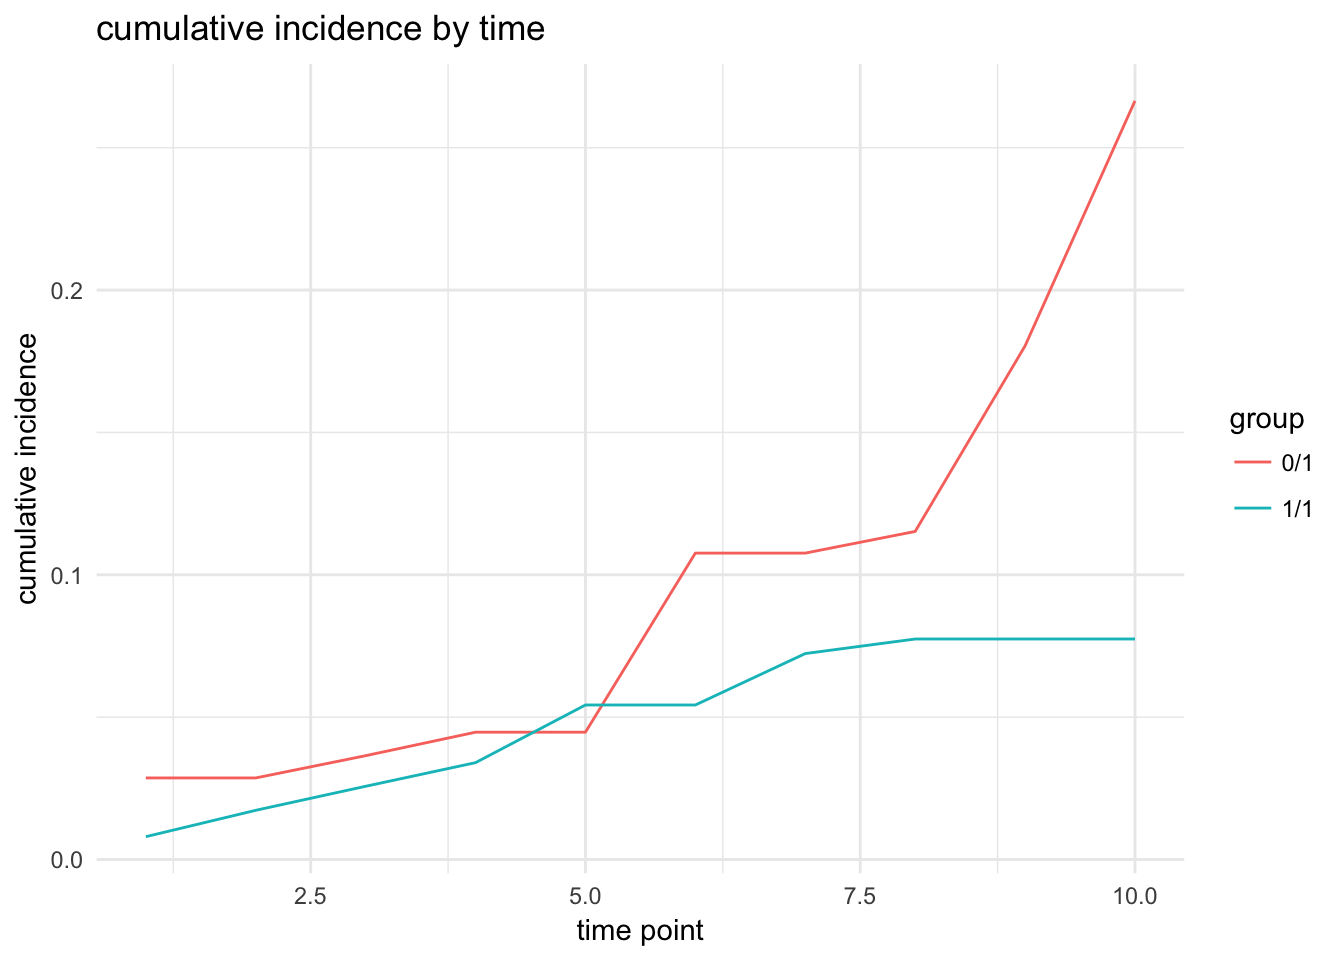
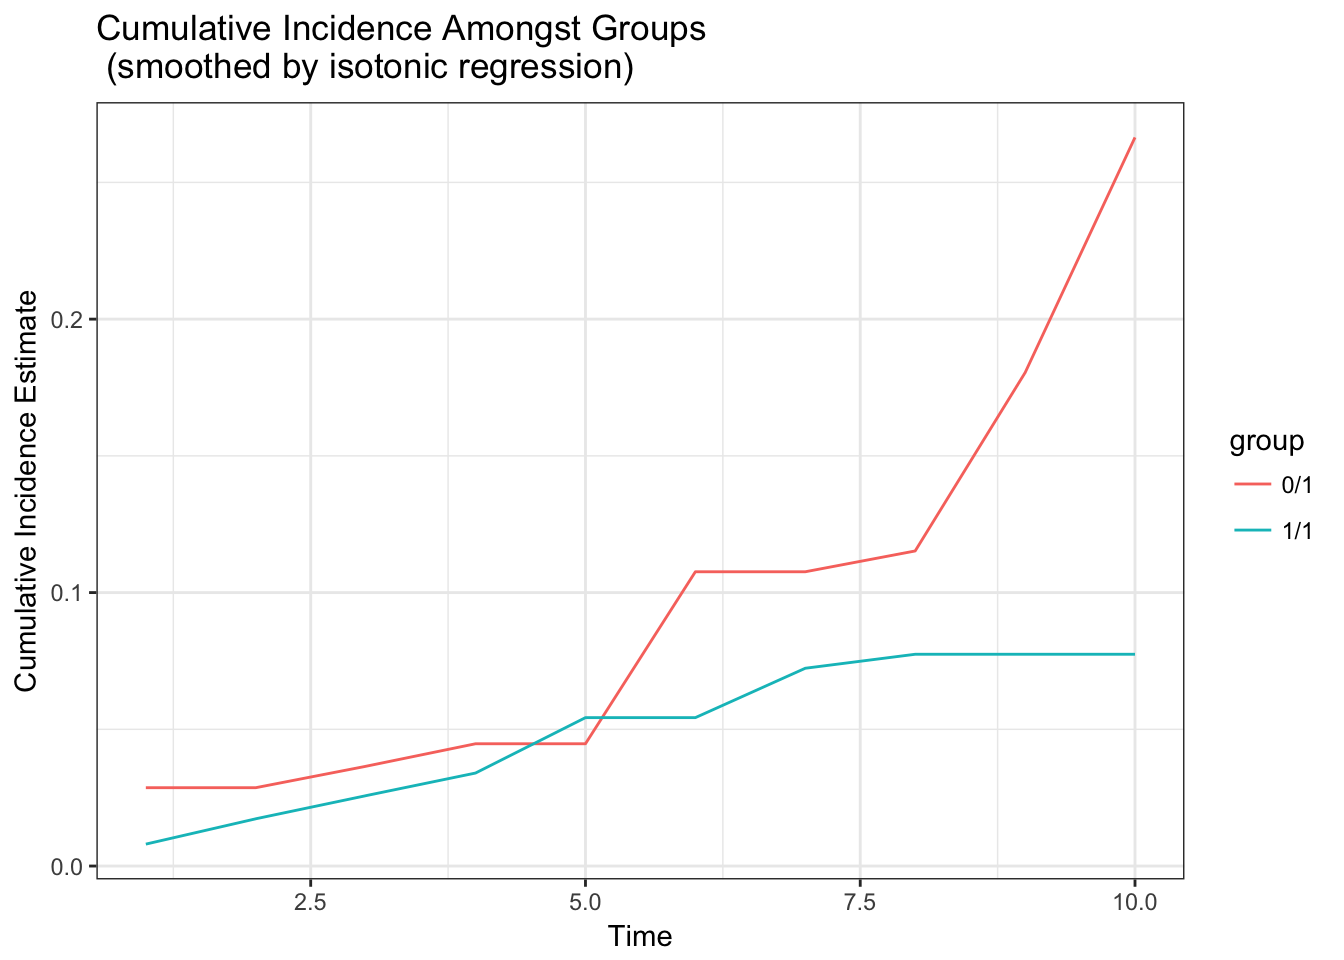
readme example with new plot + rebuild pkgdown site

diff --git a/docs/index.html b/docs/index.html
@@ -5,8 +5,8 @@
 <meta charset="utf-8">
 <meta http-equiv="X-UA-Compatible" content="IE=edge">
 <meta name="viewport" content="width=device-width, initial-scale=1.0">
-<title>Compute targeted minimum loss-based estimates in right-censored survival
-    settings • survtmle</title>
+<title>Compute Targeted Minimum Loss-Based Estimates in Right-Censored Survival
+    Settings • survtmle</title>
 <!-- jquery --><script src="https://code.jquery.com/jquery-3.1.0.min.js" integrity="sha384-nrOSfDHtoPMzJHjVTdCopGqIqeYETSXhZDFyniQ8ZHcVy08QesyHcnOUpMpqnmWq" crossorigin="anonymous"></script><!-- Bootstrap --><link href="https://maxcdn.bootstrapcdn.com/bootstrap/3.3.7/css/bootstrap.min.css" rel="stylesheet" integrity="sha384-BVYiiSIFeK1dGmJRAkycuHAHRg32OmUcww7on3RYdg4Va+PmSTsz/K68vbdEjh4u" crossorigin="anonymous">
 <script src="https://maxcdn.bootstrapcdn.com/bootstrap/3.3.7/js/bootstrap.min.js" integrity="sha384-Tc5IQib027qvyjSMfHjOMaLkfuWVxZxUPnCJA7l2mCWNIpG9mGCD8wGNIcPD7Txa" crossorigin="anonymous"></script><!-- Font Awesome icons --><link href="https://maxcdn.bootstrapcdn.com/font-awesome/4.6.3/css/font-awesome.min.css" rel="stylesheet" integrity="sha384-T8Gy5hrqNKT+hzMclPo118YTQO6cYprQmhrYwIiQ/3axmI1hQomh7Ud2hPOy8SP1" crossorigin="anonymous">
 <!-- pkgdown --><link href="pkgdown.css" rel="stylesheet">
@@ -71,7 +71,7 @@
 <blockquote>
 <p>Targeted Minimum Loss-Based Estimation (TMLE) for Survival Analysis with Competing Risks</p>
 </blockquote>
-<p><strong>Authors:</strong> <a href="https://www.benkeserstatistics.com/">David Benkeser</a> &amp; <a href="http://nimahejazi.org">Nima Hejazi</a></p>
+<p><strong>Authors:</strong> <a href="https://www.benkeserstatistics.com/">David Benkeser</a> and <a href="http://nimahejazi.org">Nima Hejazi</a></p>
 <hr>
 <div id="description" class="section level2">
 <h2 class="hasAnchor">
@@ -120,18 +120,6 @@ fit &lt;-<span class="st"> </span><span class="kw"><a href="reference/survtmle.h
 <span class="co">#&gt; glm.trt and SL.trt not specified. Proceeding with glm.trt = '1'</span>
 <span class="co">#&gt; TMLE Iteration  1   :  -9e-04 1e-04</span>
 
-<span class="co"># quick look at the output object</span>
-fit
-<span class="co">#&gt; $est</span>
-<span class="co">#&gt;           [,1]</span>
-<span class="co">#&gt; 0 1 0.26644929</span>
-<span class="co">#&gt; 1 1 0.07278289</span>
-<span class="co">#&gt; </span>
-<span class="co">#&gt; $var</span>
-<span class="co">#&gt;              0 1          1 1</span>
-<span class="co">#&gt; 0 1 3.122931e-03 3.927201e-05</span>
-<span class="co">#&gt; 1 1 3.927201e-05 9.578375e-04</span>
-
 <span class="co"># extract cumulative incidence at each time point</span>
 tpfit &lt;-<span class="st"> </span><span class="kw"><a href="reference/timepoints.html">timepoints</a></span>(fit, <span class="dt">times =</span> <span class="kw">seq_len</span>(t_<span class="dv">0</span>))
 <span class="co">#&gt; TMLE Iteration  1   :  0 0 </span>
@@ -142,6 +130,22 @@ tpfit &lt;-<span class="st"> </span><span class="kw"><a href="reference/timepoin
 <span class="co">#&gt; TMLE Iteration  1   :  -9e-04 -2e-04 </span>
 <span class="co">#&gt; TMLE Iteration  1   :  -5e-04 -2e-04 </span>
 <span class="co">#&gt; TMLE Iteration  1   :  -0.0017 -1e-04</span>
+<span class="kw">print</span>(tpfit)
+<span class="co">#&gt; $est</span>
+<span class="co">#&gt;              t1         t2         t3         t4         t5         t6</span>
+<span class="co">#&gt; 0 1 0.032997470 0.02429619 0.03646452 0.04867155 0.04076233 0.11147399</span>
+<span class="co">#&gt; 1 1 0.008014555 0.01727758 0.02571549 0.03401515 0.05722310 0.05131788</span>
+<span class="co">#&gt;             t7         t8         t9        t10</span>
+<span class="co">#&gt; 0 1 0.10375280 0.11522782 0.18040243 0.26644929</span>
+<span class="co">#&gt; 1 1 0.07233118 0.08266406 0.07688998 0.07278289</span>
+<span class="co">#&gt; </span>
+<span class="co">#&gt; $var</span>
+<span class="co">#&gt;               t1           t2           t3           t4           t5</span>
+<span class="co">#&gt; 0 1 4.565496e-04 0.0004508117 0.0004457730 0.0004420009 0.0004461814</span>
+<span class="co">#&gt; 1 1 2.111604e-06 0.0003335335 0.0003191353 0.0003058917 0.0006114673</span>
+<span class="co">#&gt;               t6           t7           t8           t9          t10</span>
+<span class="co">#&gt; 0 1 0.0012230239 0.0012205672 0.0011840986 0.0019516376 0.0031229308</span>
+<span class="co">#&gt; 1 1 0.0006198923 0.0009695247 0.0009425824 0.0009515562 0.0009578375</span>
 
 <span class="co"># examine plot of cumulative incidences</span>
 <span class="kw">plot</span>(tpfit, <span class="dt">type =</span> <span class="st">"smooth"</span>)</code></pre></div>
@@ -184,6 +188,8 @@ SOFTWARE.</code></pre>
 <ul class="list-unstyled">
 <li>Browse source code at <br><a href="https://github.com/benkeser/survtmle">https://github.com/benkeser/survtmle</a>
 </li>
+<li>Report a bug at <br><a href="https://github.com/benkeser/survtmle/issues">https://github.com/benkeser/survtmle/issues</a>
+</li>
 </ul>
 <h2>License</h2>
 <p><a href="https://opensource.org/licenses/mit-license.php">MIT</a> + file <a href="LICENSE">LICENSE</a></p>
@@ -199,7 +205,7 @@ SOFTWARE.</code></pre>
 <li><a href="https://ci.appveyor.com/project/benkeser/survtmle"><img src="https://ci.appveyor.com/api/projects/status/github/benkeser/survtmle?branch=master&amp;svg=true" alt="AppVeyor Build Status"></a></li>
 <li><a href="https://codecov.io/github/benkeser/survtmle?branch=master"><img src="https://img.shields.io/codecov/c/github/benkeser/survtmle/master.svg" alt="Coverage Status"></a></li>
 <li><a href="http://www.r-pkg.org/pkg/survtmle"><img src="http://www.r-pkg.org/badges/version/survtmle" alt="CRAN"></a></li>
-<li><a href="http://www.repostatus.org/#wip"><img src="http://www.repostatus.org/badges/latest/wip.svg" alt="Project Status: WIP - Initial development is in progress, but there has not yet been a stable, usable release suitable for the public."></a></li>
+<li><a href="http://www.repostatus.org/#active"><img src="http://www.repostatus.org/badges/latest/active.svg" alt="Project Status: Active – The project has reached a stable, usable state and is being actively developed."></a></li>
 <li><a href="http://opensource.org/licenses/MIT"><img src="http://img.shields.io/badge/license-MIT-brightgreen.svg" alt="MIT license"></a></li>
 </ul>
 </body></html>

diff --git a/docs/reference/plot.tp.survtmle.html b/docs/reference/plot.tp.survtmle.html
@@ -108,6 +108,31 @@ to <code>stats::isoreg</code></dd>
         time points of interest.</p>
     
 
+    <h2 class="hasAnchor" id="examples"><a class="anchor" href="#examples"></a>Examples</h2>
+    <pre class="examples"><div class='input'><span class='fu'>library</span>(<span class='no'>survtmle</span>)
+<span class='fu'>set.seed</span>(<span class='fl'>341796</span>)
+<span class='no'>n</span> <span class='kw'>&lt;-</span> <span class='fl'>100</span>
+<span class='no'>t_0</span> <span class='kw'>&lt;-</span> <span class='fl'>10</span>
+<span class='no'>W</span> <span class='kw'>&lt;-</span> <span class='fu'>data.frame</span>(<span class='kw'>W1</span> <span class='kw'>=</span> <span class='fu'>runif</span>(<span class='no'>n</span>), <span class='kw'>W2</span> <span class='kw'>=</span> <span class='fu'>rbinom</span>(<span class='no'>n</span>, <span class='fl'>1</span>, <span class='fl'>0.5</span>))
+<span class='no'>A</span> <span class='kw'>&lt;-</span> <span class='fu'>rbinom</span>(<span class='no'>n</span>, <span class='fl'>1</span>, <span class='fl'>0.5</span>)
+<span class='no'>T</span> <span class='kw'>&lt;-</span> <span class='fu'>rgeom</span>(<span class='no'>n</span>,<span class='fu'>plogis</span>(-<span class='fl'>4</span> + <span class='no'>W</span>$<span class='no'>W1</span> * <span class='no'>W</span>$<span class='no'>W2</span> - <span class='no'>A</span>)) + <span class='fl'>1</span>
+<span class='no'>C</span> <span class='kw'>&lt;-</span> <span class='fu'>rgeom</span>(<span class='no'>n</span>, <span class='fu'>plogis</span>(-<span class='fl'>6</span> + <span class='no'>W</span>$<span class='no'>W1</span>)) + <span class='fl'>1</span>
+<span class='no'>ftime</span> <span class='kw'>&lt;-</span> <span class='fu'>pmin</span>(<span class='no'>T</span>, <span class='no'>C</span>)
+<span class='no'>ftype</span> <span class='kw'>&lt;-</span> <span class='fu'>as.numeric</span>(<span class='no'>ftime</span> <span class='kw'>==</span> <span class='no'>T</span>)
+<span class='fu'>suppressWarnings</span>(
+  <span class='no'>fit</span> <span class='kw'>&lt;-</span> <span class='fu'><a href='survtmle.html'>survtmle</a></span>(<span class='kw'>ftime</span> <span class='kw'>=</span> <span class='no'>ftime</span>, <span class='kw'>ftype</span> <span class='kw'>=</span> <span class='no'>ftype</span>,
+                  <span class='kw'>adjustVars</span> <span class='kw'>=</span> <span class='no'>W</span>, <span class='kw'>glm.ftime</span> <span class='kw'>=</span> <span class='st'>"I(W1*W2) + trt + t"</span>,
+                  <span class='kw'>trt</span> <span class='kw'>=</span> <span class='no'>A</span>, <span class='kw'>glm.ctime</span> <span class='kw'>=</span> <span class='st'>"W1 + t"</span>, <span class='kw'>method</span> <span class='kw'>=</span> <span class='st'>"hazard"</span>,
+                  <span class='kw'>verbose</span> <span class='kw'>=</span> <span class='fl'>TRUE</span>,  <span class='kw'>t0</span> <span class='kw'>=</span> <span class='no'>t_0</span>, <span class='kw'>maxIter</span> <span class='kw'>=</span> <span class='fl'>2</span>)
+)</div><div class='output co'>#&gt; TMLE Iteration  1   :  -9e-04 1e-04 </div><div class='input'><span class='no'>tpfit</span> <span class='kw'>&lt;-</span> <span class='fu'><a href='timepoints.html'>timepoints</a></span>(<span class='no'>fit</span>, <span class='kw'>times</span> <span class='kw'>=</span> <span class='fu'>seq_len</span>(<span class='no'>t_0</span>))</div><div class='output co'>#&gt; TMLE Iteration  1   :  0 0 
+#&gt; TMLE Iteration  1   :  -3e-04 0 
+#&gt; TMLE Iteration  1   :  -6e-04 0 
+#&gt; TMLE Iteration  1   :  -3e-04 0 
+#&gt; TMLE Iteration  1   :  -0.0017 0 
+#&gt; TMLE Iteration  1   :  -9e-04 -2e-04 
+#&gt; TMLE Iteration  1   :  -5e-04 -2e-04 
+#&gt; TMLE Iteration  1   :  -0.0017 -1e-04 </div><div class='input'><span class='fu'>plot</span>(<span class='no'>tpfit</span>, <span class='kw'>type</span> <span class='kw'>=</span> <span class='st'>"smooth"</span>)</div><img src='plot.tp.survtmle-6.png' alt='' width='540' height='400' /><div class='input'>
+</div></pre>
   </div>
   <div class="col-md-3 hidden-xs hidden-sm" id="sidebar">
     <h2>Contents</h2>
@@ -115,7 +140,9 @@ to <code>stats::isoreg</code></dd>
       <li><a href="#arguments">Arguments</a></li>
       
       <li><a href="#value">Value</a></li>
-          </ul>
+      
+      <li><a href="#examples">Examples</a></li>
+    </ul>
 
   </div>
 </div>

diff --git a/docs/reference/print.tp.survtmle.html b/docs/reference/print.tp.survtmle.html
@@ -6,7 +6,7 @@
 <meta http-equiv="X-UA-Compatible" content="IE=edge">
 <meta name="viewport" content="width=device-width, initial-scale=1.0">
 
-<title>Articles • survtmle</title>
+<title>print.tp.survtmle — print.tp.survtmle • survtmle</title>
 
 <!-- jquery -->
 <script src="https://code.jquery.com/jquery-3.1.0.min.js" integrity="sha384-nrOSfDHtoPMzJHjVTdCopGqIqeYETSXhZDFyniQ8ZHcVy08QesyHcnOUpMpqnmWq" crossorigin="anonymous"></script>
@@ -34,7 +34,7 @@
   </head>
 
   <body>
-    <div class="container template-vignette-index">
+    <div class="container template-reference-topic">
       <header>
       <div class="navbar navbar-default navbar-fixed-top" role="navigation">
   <div class="container">
@@ -74,20 +74,42 @@
       
       </header>
 
-      <div class="page-header">
-  <h1>Vignette reference <small>version&nbsp;0.1.2</small></h1>
-</div>
-
-<div class="row">
-  <div class="col-md-9">
-    <div class="section ">
-      <h3>All vignettes</h3>
-      <p class="section-desc"></p>
-
-      <ul>
-        <li><a href="basicSieveAnalysis.html">Vaccine Sieve Analysis by Targeted Learning</a></li>
-      </ul>
+      <div class="row">
+  <div class="col-md-9 contents">
+    <div class="page-header">
+    <h1>print.tp.survtmle</h1>
     </div>
+
+    
+    <p>The print method for a timepoints object of class <code>tp.survtmle</code></p>
+    
+
+    <pre><span class='co'># S3 method for tp.survtmle</span>
+<span class='fu'>print</span>(<span class='no'>x</span>, <span class='no'>...</span>)</pre>
+    
+    <h2 class="hasAnchor" id="arguments"><a class="anchor" href="#arguments"></a> Arguments</h2>
+    <dl class="dl-horizontal">
+      <dt>x</dt>
+      <dd>An object of class <code>tp.survtmle</code></dd>
+      <dt>...</dt>
+      <dd>Other options (not currently used)</dd>
+    </dl>
+    
+    <h2 class="hasAnchor" id="value"><a class="anchor" href="#value"></a>Value</h2>
+
+    <p>Prints the estimates of cumulative incidence and the diagonal
+        of the estimated covariance matrix.</p>
+    
+
+  </div>
+  <div class="col-md-3 hidden-xs hidden-sm" id="sidebar">
+    <h2>Contents</h2>
+    <ul class="nav nav-pills nav-stacked">
+      <li><a href="#arguments">Arguments</a></li>
+      
+      <li><a href="#value">Value</a></li>
+          </ul>
+
   </div>
 </div>
 

diff --git a/docs/reference/index.html b/docs/reference/index.html
@@ -78,7 +78,7 @@
   <div class="col-md-9">
     <div class="page-header">
       <h1>Function reference</h1>
-      <h4>version&nbsp;0.1.1</h4>
+      <h4>version&nbsp;0.1.2</h4>
     </div>
 
     <div class="contents">
@@ -189,6 +189,11 @@
       <p><a href="print.survtmle.html">print.survtmle</a></p>
       <ul>
         <li><code><a href="print.survtmle.html">print.survtmle</a></code></li>
+      </ul>
+      
+      <p><a href="print.tp.survtmle.html">print.tp.survtmle</a></p>
+      <ul>
+        <li><code><a href="print.tp.survtmle.html">print.tp.survtmle</a></code></li>
       </ul>
       
       <p><a href="rtss.html">Mock RTSS/AS01 data set</a></p>

diff --git a/docs/reference/timepoints.html b/docs/reference/timepoints.html
@@ -158,7 +158,8 @@ timepoints specified and the size of the super learner library.</dd>
 #&gt; 1 1  6.160159e-05  4.270541e-03 -8.875712e-05 -1.167929e-03
 #&gt; 0 2 -9.378340e-04 -8.875712e-05  3.664619e-03  1.676504e-05
 #&gt; 1 2  5.297656e-05 -1.167929e-03  1.676504e-05  3.802279e-03
-#&gt; </div></pre>
+#&gt; </div><div class='input'>
+</div></pre>
   </div>
   <div class="col-md-3 hidden-xs hidden-sm" id="sidebar">
     <h2>Contents</h2>

diff --git a/docs/articles/basicSieveAnalysis.html b/docs/articles/basicSieveAnalysis.html
@@ -102,7 +102,7 @@
 ## [1] stats     graphics  grDevices utils     datasets  methods   base     
 ## 
 ## other attached packages:
-## [1] nnls_1.4          survtmle_0.1.1    dtplyr_0.0.2      data.table_1.10.4
+## [1] nnls_1.4          survtmle_0.1.2    dtplyr_0.0.2      data.table_1.10.4
 ## [5] dplyr_0.7.1       ggplot2_2.2.1     devtools_1.13.2   nima_0.4.0       
 ## [9] colorout_1.1-2   
 ## 

diff --git a/README.md b/README.md
@@ -3,11 +3,11 @@
 R/`survtmle`
 ============
 
-[![Travis-CI Build Status](https://travis-ci.org/benkeser/survtmle.svg?branch=master)](https://travis-ci.org/benkeser/survtmle) [![AppVeyor Build Status](https://ci.appveyor.com/api/projects/status/github/benkeser/survtmle?branch=master&svg=true)](https://ci.appveyor.com/project/benkeser/survtmle) [![Coverage Status](https://img.shields.io/codecov/c/github/benkeser/survtmle/master.svg)](https://codecov.io/github/benkeser/survtmle?branch=master) [![CRAN](http://www.r-pkg.org/badges/version/survtmle)](http://www.r-pkg.org/pkg/survtmle) [![Project Status: WIP - Initial development is in progress, but there has not yet been a stable, usable release suitable for the public.](http://www.repostatus.org/badges/latest/wip.svg)](http://www.repostatus.org/#wip) [![MIT license](http://img.shields.io/badge/license-MIT-brightgreen.svg)](http://opensource.org/licenses/MIT)
+[![Travis-CI Build Status](https://travis-ci.org/benkeser/survtmle.svg?branch=master)](https://travis-ci.org/benkeser/survtmle) [![AppVeyor Build Status](https://ci.appveyor.com/api/projects/status/github/benkeser/survtmle?branch=master&svg=true)](https://ci.appveyor.com/project/benkeser/survtmle) [![Coverage Status](https://img.shields.io/codecov/c/github/benkeser/survtmle/master.svg)](https://codecov.io/github/benkeser/survtmle?branch=master) [![CRAN](http://www.r-pkg.org/badges/version/survtmle)](http://www.r-pkg.org/pkg/survtmle) [![Project Status: Active – The project has reached a stable, usable state and is being actively developed.](http://www.repostatus.org/badges/latest/active.svg)](http://www.repostatus.org/#active) [![MIT license](http://img.shields.io/badge/license-MIT-brightgreen.svg)](http://opensource.org/licenses/MIT)
 
 > Targeted Minimum Loss-Based Estimation (TMLE) for Survival Analysis with Competing Risks
 
-**Authors:** [David Benkeser](https://www.benkeserstatistics.com/) & [Nima Hejazi](http://nimahejazi.org)
+**Authors:** [David Benkeser](https://www.benkeserstatistics.com/) and [Nima Hejazi](http://nimahejazi.org)
 
 ------------------------------------------------------------------------
 
@@ -50,7 +50,7 @@ This minimal example shows how to use `survtmle` to obtain cumulative incidence 
 ``` r
 library(survtmle)
 #> survtmle: Targeted Learning for Survival Analysis
-#> Version: 0.1.1
+#> Version: 0.1.2
 set.seed(341796)
 
 # simulate data
@@ -72,18 +72,6 @@ fit <- survtmle(ftime = ftime, ftype = ftype,
 #> glm.trt and SL.trt not specified. Proceeding with glm.trt = '1'
 #> TMLE Iteration  1   :  -9e-04 1e-04
 
-# quick look at the output object
-fit
-#> $est
-#>           [,1]
-#> 0 1 0.26644929
-#> 1 1 0.07278289
-#> 
-#> $var
-#>              0 1          1 1
-#> 0 1 3.122931e-03 3.927201e-05
-#> 1 1 3.927201e-05 9.578375e-04
-
 # extract cumulative incidence at each time point
 tpfit <- timepoints(fit, times = seq_len(t_0))
 #> TMLE Iteration  1   :  0 0 
@@ -94,6 +82,22 @@ tpfit <- timepoints(fit, times = seq_len(t_0))
 #> TMLE Iteration  1   :  -9e-04 -2e-04 
 #> TMLE Iteration  1   :  -5e-04 -2e-04 
 #> TMLE Iteration  1   :  -0.0017 -1e-04
+print(tpfit)
+#> $est
+#>              t1         t2         t3         t4         t5         t6
+#> 0 1 0.032997470 0.02429619 0.03646452 0.04867155 0.04076233 0.11147399
+#> 1 1 0.008014555 0.01727758 0.02571549 0.03401515 0.05722310 0.05131788
+#>             t7         t8         t9        t10
+#> 0 1 0.10375280 0.11522782 0.18040243 0.26644929
+#> 1 1 0.07233118 0.08266406 0.07688998 0.07278289
+#> 
+#> $var
+#>               t1           t2           t3           t4           t5
+#> 0 1 4.565496e-04 0.0004508117 0.0004457730 0.0004420009 0.0004461814
+#> 1 1 2.111604e-06 0.0003335335 0.0003191353 0.0003058917 0.0006114673
+#>               t6           t7           t8           t9          t10
+#> 0 1 0.0012230239 0.0012205672 0.0011840986 0.0019516376 0.0031229308
+#> 1 1 0.0006198923 0.0009695247 0.0009425824 0.0009515562 0.0009578375
 
 # examine plot of cumulative incidences
 plot(tpfit, type = "smooth")
